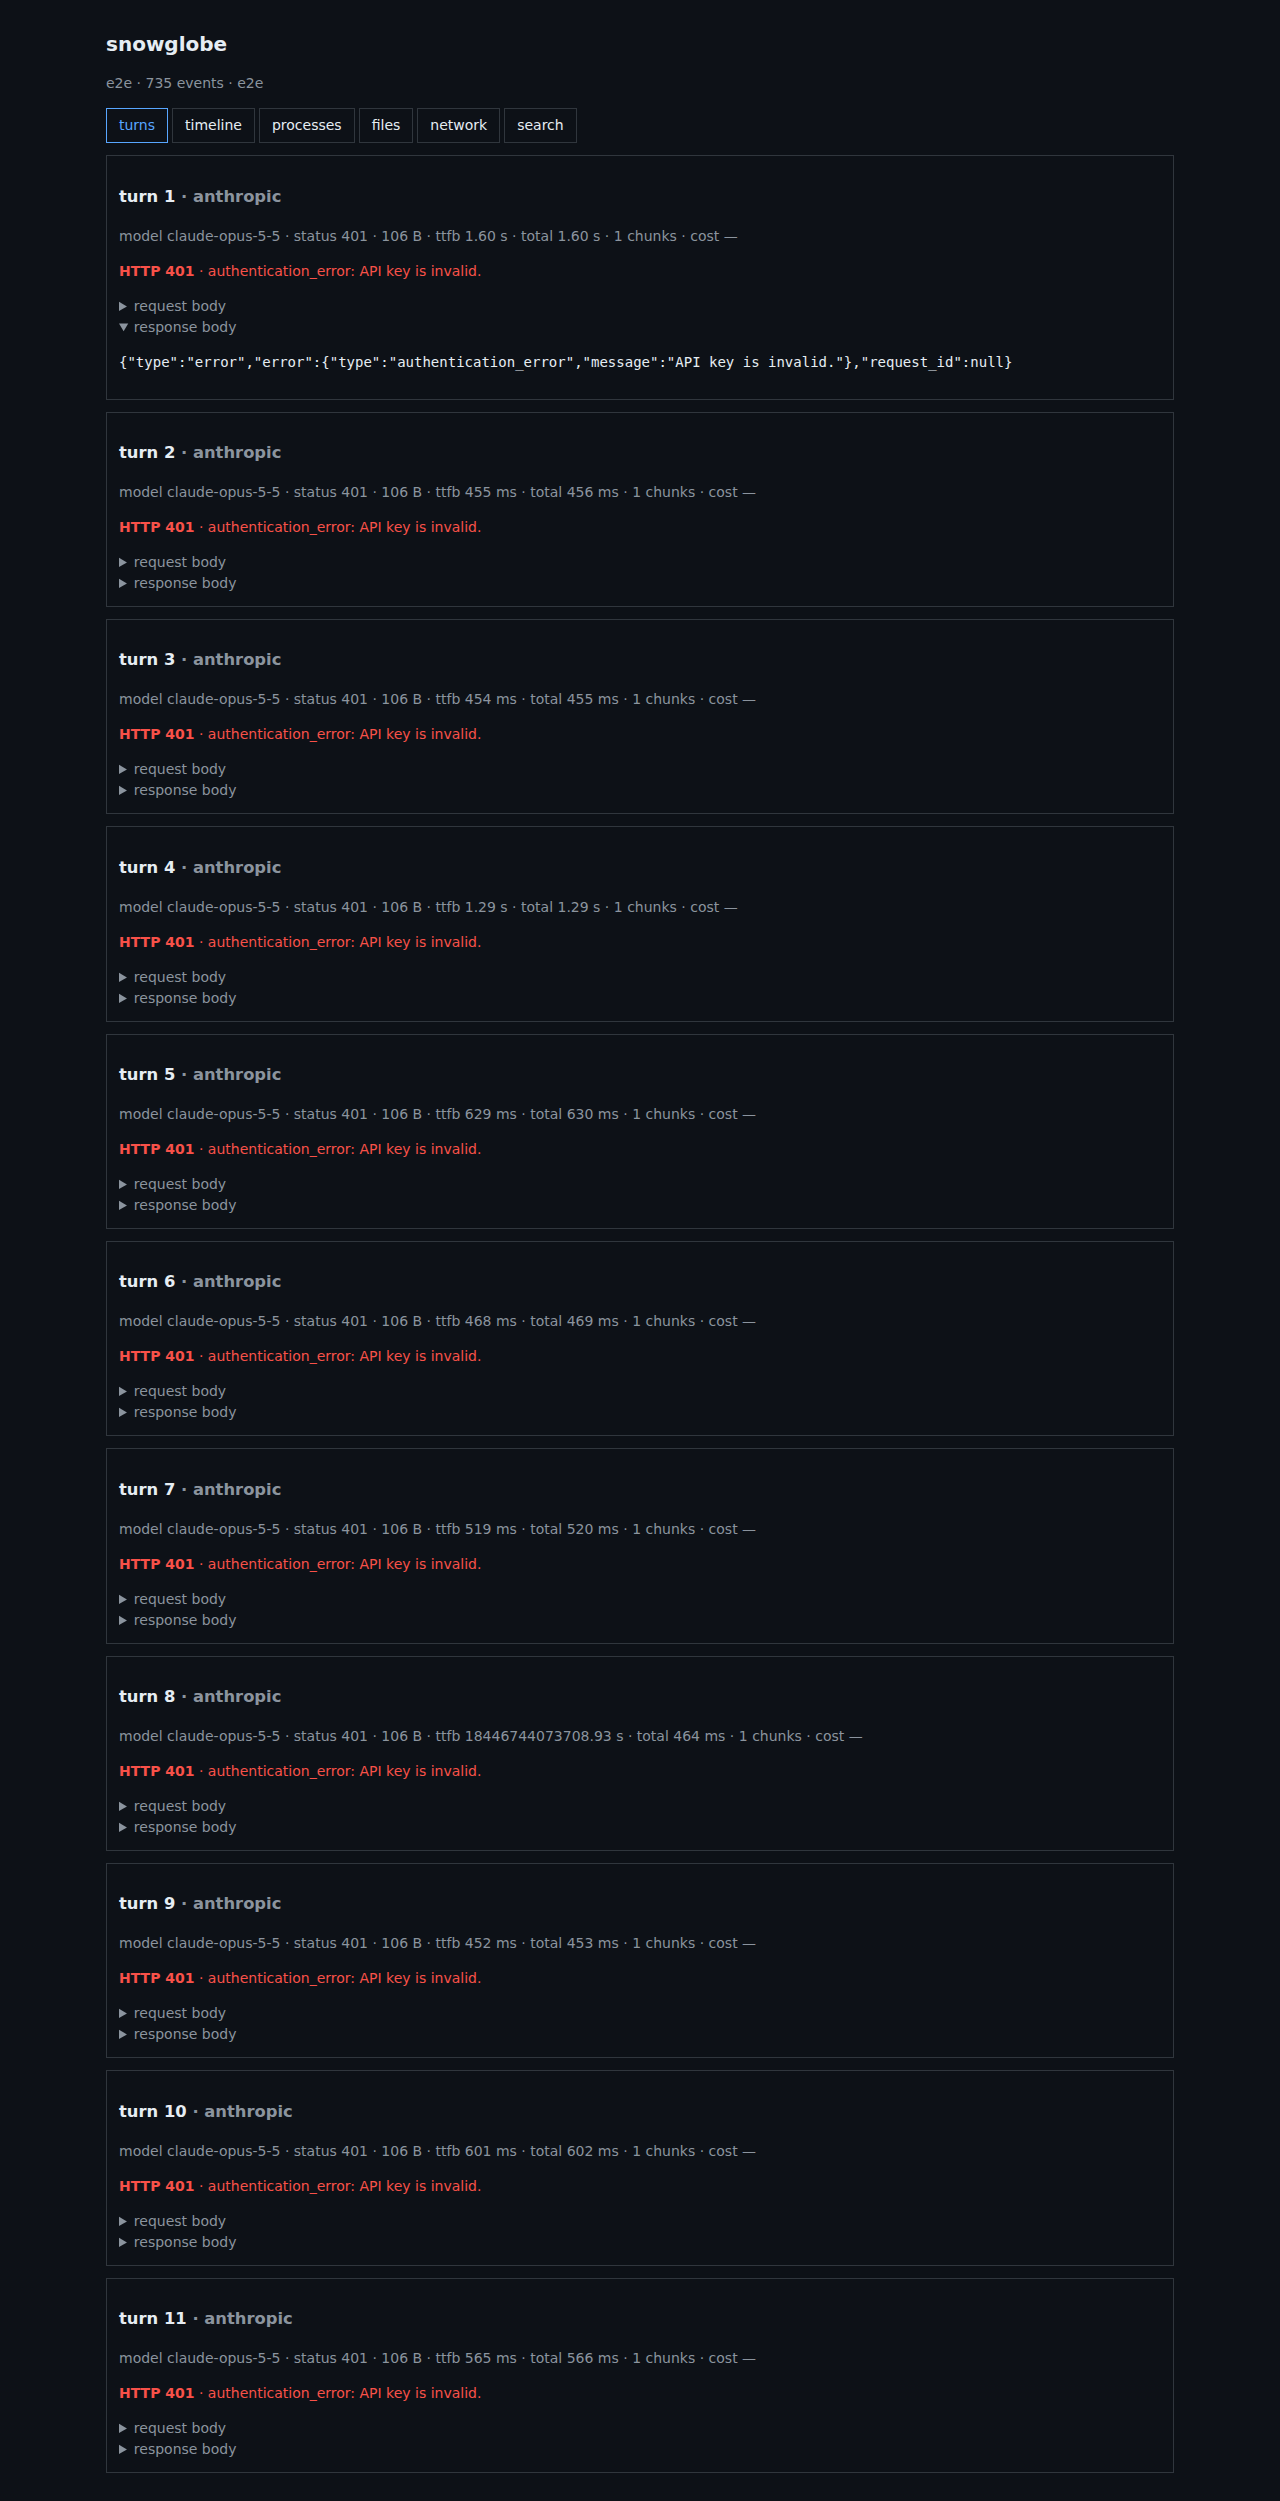
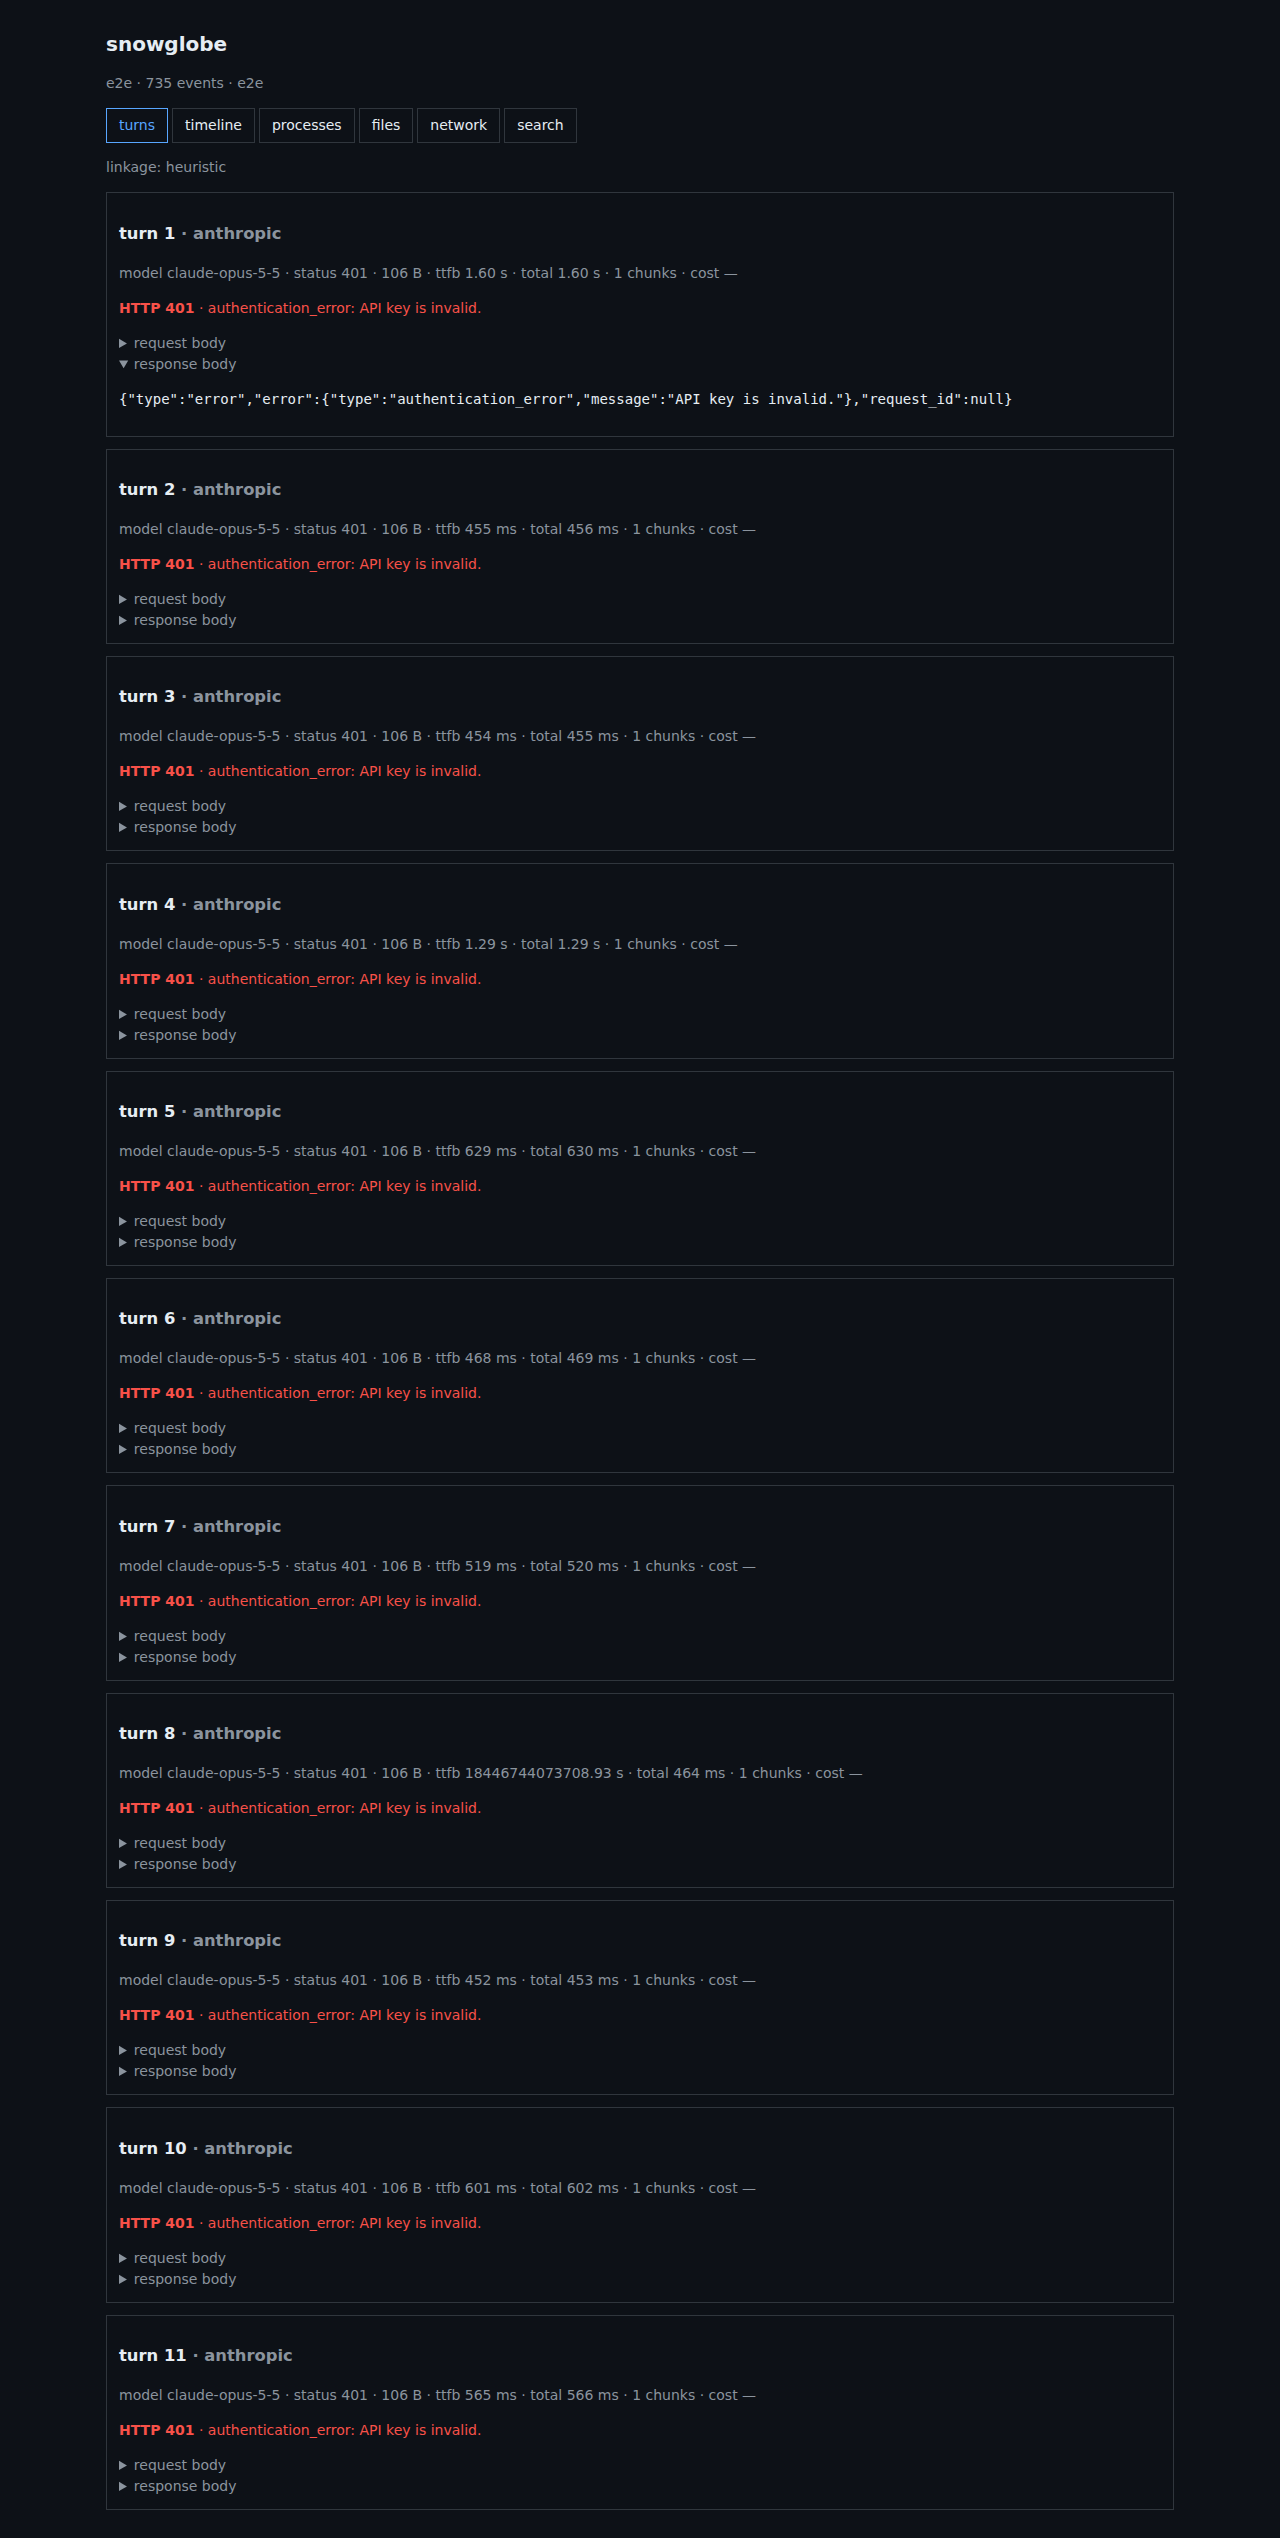
feat(viewer): Timeline turn lanes with basis badges (closes #3)
TurnIndex-single-sourced lanes (sidecar exact else span heuristic),
color-coded T1..Tn + grey pre-turn lane with reasons, linkage label on
the tab, basis on hover + inline, lane filters over the virtualised
list (50MB perf stays <3s). Playwright pins sidecar + heuristic paths.
Screenshots refreshed + timeline-lanes/files added; hero art kept.

diff --git a/viewer/components/Timeline.tsx b/viewer/components/Timeline.tsx
@@ -1,5 +1,8 @@
-import { useMemo, useState } from "react";
+import { useEffect, useMemo, useState } from "react";
 import VList from "./VList";
+import { TurnIndex, seqOf } from "../lib/model";
+import type { LinksDoc, Turn } from "../lib/model";
+import { loadLinks } from "../lib/load";
 import type { TraceEvent } from "../lib/types";
 
 const KINDS = [
@@ -12,20 +15,121 @@ const KINDS = [
   "trace",
 ] as const;
 
-// Every event, newest last, filterable by family. The 60fps path: VList
-// renders a window, never the whole trace.
+// Per-turn lane colors (cycled past 8 turns); pre-turn is always grey.
+// Inline styles: no theme dependency, readable on light and dark.
+const LANE_COLORS = [
+  "#2563eb",
+  "#059669",
+  "#d97706",
+  "#7c3aed",
+  "#db2777",
+  "#0891b2",
+  "#65a30d",
+  "#dc2626",
+];
+const PRE_COLOR = "#6b7280";
+
+interface LaneRow {
+  e: TraceEvent;
+  idx: number;
+  seq: number;
+  turn: Turn | null; // owning turn (sidecar exact or span heuristic)
+  turnPos: number; // 1-based position in TurnIndex.list (matches Turns tab)
+  basis: string | null; // window | lineage | argv-match | heuristic
+  reason: string | null; // unattributed reason (pre-turn, …)
+}
+
+// Lane assignment, single-sourced on TurnIndex (identical rules to the
+// Turns tab): the links.json sidecar wins where it speaks (exact seq +
+// basis + explicit unattributed reasons); unlisted seqs keep the
+// request-anchored span heuristic with basis "heuristic"; seqs before
+// the first turn land in the grey pre-turn lane, never dropped.
+function laneOf(
+  index: TurnIndex,
+  posOf: Map<number, number>,
+  e: TraceEvent,
+  idx: number,
+): LaneRow {
+  const seq = seqOf(e, idx);
+  const link = index.linkOf(seq);
+  if (link !== null && "turn" in link) {
+    return {
+      e,
+      idx,
+      seq,
+      turn: link.turn,
+      turnPos: posOf.get(link.turn.id) ?? 0,
+      basis: link.basis,
+      reason: null,
+    };
+  }
+  if (link !== null && "unattributed" in link) {
+    return { e, idx, seq, turn: null, turnPos: 0, basis: null, reason: link.unattributed };
+  }
+  const turn = index.getTurnForEvent(seq);
+  if (turn) {
+    return {
+      e,
+      idx,
+      seq,
+      turn,
+      turnPos: posOf.get(turn.id) ?? 0,
+      basis: "heuristic",
+      reason: null,
+    };
+  }
+  return { e, idx, seq, turn: null, turnPos: 0, basis: null, reason: "pre-turn" };
+}
+
+// Every event, newest last, filterable by family and by turn lane. The
+// 60fps path: VList renders a window, never the whole trace; lane
+// assignment is one linear memo pass, not per-row work.
 export default function Timeline({ events }: { events: TraceEvent[] }) {
   const [kind, setKind] = useState<(typeof KINDS)[number]>("all");
   const [query, setQuery] = useState("");
+  const [lane, setLane] = useState<string>("all");
+  const [links, setLinks] = useState<LinksDoc | null>(null);
+  useEffect(() => {
+    let live = true;
+    loadLinks().then((d) => {
+      if (live) setLinks(d);
+    });
+    return () => {
+      live = false;
+    };
+  }, []);
+  const index = useMemo(() => new TurnIndex(events, links), [events, links]);
+  const posOf = useMemo(() => {
+    const m = new Map<number, number>();
+    index.list.forEach((t, i) => m.set(t.id, i + 1));
+    return m;
+  }, [index]);
+  const laned = useMemo(
+    () => events.map((e, idx) => laneOf(index, posOf, e, idx)),
+    [events, index, posOf],
+  );
+  const laneCounts = useMemo(() => {
+    const m = new Map<string, number>();
+    for (const r of laned) {
+      const k = r.turn ? `turn:${r.turn.id}` : "pre";
+      m.set(k, (m.get(k) ?? 0) + 1);
+    }
+    return m;
+  }, [laned]);
   const rows = useMemo(() => {
     const q = query.toLowerCase();
-    return events.filter((e) => {
+    return laned.filter((r) => {
+      const e = r.e;
       const fam = e.ev.split(".")[0];
       if (kind !== "all" && fam !== kind && e.ev !== kind) return false;
+      if (lane === "pre" && r.turn !== null) return false;
+      if (lane.startsWith("turn:") && (!r.turn || `turn:${r.turn.id}` !== lane)) {
+        return false;
+      }
       if (q && !JSON.stringify(e).toLowerCase().includes(q)) return false;
       return true;
     });
-  }, [events, kind, query]);
+  }, [laned, kind, query, lane]);
   return (
     <div>
       <div className="tabs" role="tablist" aria-label="event family">
@@ -46,22 +150,97 @@ export default function Timeline({ events }: { events: TraceEvent[] }) {
           style={{ marginLeft: 8 }}
         />
       </div>
+      <p className="muted" data-testid="timeline-link-source">
+        linkage: {index.source}
+      </p>
+      <div role="tablist" aria-label="turn lane">
+        <button
+          data-testid="lane-all"
+          aria-selected={lane === "all"}
+          onClick={() => setLane("all")}
+        >
+          all lanes
+        </button>
+        <button
+          data-testid="lane-pre"
+          aria-selected={lane === "pre"}
+          onClick={() => setLane("pre")}
+          title="events before the first turn (sidecar pre-turn bucket or span heuristic)"
+        >
+          pre-turn ({laneCounts.get("pre") ?? 0})
+        </button>
+        {index.list.map((t) => (
+          <button
+            key={t.id}
+            data-testid={`lane-${t.id}`}
+            aria-selected={lane === `turn:${t.id}`}
+            onClick={() => setLane(`turn:${t.id}`)}
+            title={`turn ${posOf.get(t.id)} · ${t.provider} · status ${t.status}`}
+          >
+            <span
+              style={{
+                display: "inline-block",
+                width: 10,
+                height: 10,
+                background: LANE_COLORS[((posOf.get(t.id) ?? 1) - 1) % LANE_COLORS.length],
+                marginRight: 4,
+              }}
+            />
+            T{posOf.get(t.id)} ({laneCounts.get(`turn:${t.id}`) ?? 0})
+          </button>
+        ))}
+      </div>
       <p className="muted" data-testid="timeline-count">
         {rows.length} / {events.length} events
       </p>
       <VList
         items={rows}
-        rowHeight={26}
+        rowHeight={30}
         height={480}
-        keyOf={(e) => e.seq}
-        renderRow={(e) => (
-          <div style={{ padding: "3px 8px", whiteSpace: "nowrap" }}>
-            <span className="muted">#{e.seq}</span> <b>{e.ev}</b>{" "}
-            <span className="muted">
-              pid={String(e.pid)} tid={String(e.tid)} t={e.t_ms}ms
-            </span>
-          </div>
-        )}
+        keyOf={(r) => r.seq * 100000 + r.idx}
+        renderRow={(r) => {
+          const color = r.turn
+            ? LANE_COLORS[(r.turnPos - 1) % LANE_COLORS.length]
+            : PRE_COLOR;
+          const title = r.turn
+            ? `turn T${r.turnPos} (llm id ${r.turn.id}) · basis ${r.basis}`
+            : `pre-turn · ${r.reason ?? "unattributed"}`;
+          return (
+            <div
+              title={title}
+              style={{
+                padding: "4px 8px",
+                whiteSpace: "nowrap",
+                borderLeft: `4px solid ${color}`,
+              }}
+            >
+              <span
+                data-testid={r.turn ? `lane-chip-${r.turn.id}` : "lane-chip-pre"}
+                style={{
+                  display: "inline-block",
+                  minWidth: 34,
+                  textAlign: "center",
+                  color: "#fff",
+                  background: color,
+                  marginRight: 6,
+                  padding: "0 4px",
+                }}
+              >
+                {r.turn ? `T${r.turnPos}` : "pre"}
+              </span>
+              <span className="muted">#{r.seq}</span> <b>{r.e.ev}</b>{" "}
+              <span className="muted">
+                pid={String(r.e.pid)} tid={String(r.e.tid)} t={r.e.t_ms}ms
+              </span>{" "}
+              {r.basis && (
+                <span data-testid={`basis-${r.seq}`} className="muted">
+                  [{r.basis}]
+                </span>
+              )}
+              {r.reason && <span className="muted">({r.reason})</span>}
+            </div>
+          );
+        }}
       />
     </div>
   );

diff --git a/viewer/e2e/view.spec.ts b/viewer/e2e/view.spec.ts
@@ -33,8 +33,22 @@ test("toy-agent fixture: 3 turns, linked file write, offline", async ({
     await expect(page.getByTestId("linked-1")).toContainText("[window]");
     await expect(page.getByTestId("turn-text-2")).toContainText("done");
     await maybeScreenshot(page, "turns-toy-agent.png");
-    // Other views render on the same data.
+    // Timeline lanes (issue #3): same turn truth as the Turns tab —
+    // sidecar exact + basis badges, grey pre-turn lane, all virtualised.
     await page.getByRole("tab", { name: "timeline" }).click();
+    await expect(page.getByTestId("timeline-count")).toContainText("125 / 125 events");
+    await expect(page.getByTestId("timeline-link-source")).toContainText("sidecar");
+    await expect(page.getByTestId("lane-pre")).toBeVisible();
+    await expect(page.getByTestId("lane-1")).toBeVisible();
+    // Lane filter narrows to the turn: every rendered row then carries a
+    // basis badge (sidecar window/lineage/argv-match here, never blank).
+    await page.getByTestId("lane-1").click();
+    await expect(page.getByTestId("timeline-count")).not.toContainText("125 / 125 events");
+    expect(await page.locator('[data-testid^="basis-"]').count()).toBeGreaterThan(0);
+    expect(await page.locator('[data-testid="lane-chip-1"]').count()).toBeGreaterThan(0);
+    await expect(page.locator('[data-testid="lane-chip-pre"]')).toHaveCount(0);
+    // Back to all lanes: the grey pre-turn lane renders its reason chips.
+    await page.getByTestId("lane-all").click();
     await expect(page.getByTestId("timeline-count")).toContainText("125 / 125 events");
     await page.getByRole("tab", { name: "files" }).click();
     await expect(page.getByTestId("files")).toContainText("note.txt");

diff --git a/viewer/e2e/error.spec.ts b/viewer/e2e/error.spec.ts
@@ -54,6 +54,20 @@ test("claude-code-1-error: error turns render status, envelope, raw body", async
     await expect(page.getByTestId("timeline-count")).toContainText(
       "735 / 735 events",
     );
+    // Timeline lanes without links.json: the span heuristic applies and
+    // says so (badge rules identical to the Turns tab).
+    await expect(page.getByTestId("timeline-link-source")).toContainText("heuristic");
+    await expect(page.getByTestId("lane-pre")).toBeVisible();
+    await expect(page.getByTestId("lane-1")).toBeVisible();
+    // Heuristic territory: turn-lane rows carry the [heuristic] basis.
+    await page.getByTestId("lane-1").click();
+    expect(await page.locator('[data-testid^="basis-"]').count()).toBeGreaterThan(0);
+    await expect(page.locator('[data-testid="lane-chip-1"]').first()).toBeVisible();
+    await page.getByTestId("lane-all").click();
+    await maybeScreenshot(page, "timeline-lanes-error.png");
+    await page.getByRole("tab", { name: "files" }).click();
+    await expect(page.getByTestId("files")).toBeVisible();
+    await maybeScreenshot(page, "files-error.png");
     expect(external).toEqual([]);
   } finally {
     await srv.stop();

diff --git a/docs/viewer.md b/docs/viewer.md
@@ -25,7 +25,16 @@ viewer does today and how it is built, tested, and extended.
 `viewer/pages/index.tsx` hosts the tabs, all backed by virtualised lists
 (`components/VList.tsx`) so a 50 MB trace opens in < 3 s:
 
-- **Timeline** — all events in seq order.
+- **Timeline** — all events in seq order, grouped into turn lanes: one
+  color-coded lane per turn (`T1…Tn`, matching the Turns tab numbering)
+  plus a grey pre-turn lane for unattributed events (with reasons, never
+  dropped). Lane membership and basis badges come from the same
+  `TurnIndex` the Turns tab uses — `links.json` exact (`window` /
+  `lineage` / `argv-match`) when the run has one, the span heuristic
+  (`[heuristic]`) otherwise — and the header reads
+  `linkage: sidecar|heuristic` on this tab too. Lane filter buttons
+  (`all lanes`, `pre-turn (N)`, `T1 (N)`…) narrow the virtualised list;
+  the basis shows on hover (title) and inline as a badge.
 - **Turns** — one section per LLM turn (request → response): folded text,
   tool calls with arguments, usage/cost when known, timing (ttfb/total,
   chunk count), truncation and error flags. Turns come from
@@ -106,16 +115,21 @@ viewer does today and how it is built, tested, and extended.
   events, 11 401 turns, probe excluded, every real envelope parsed).
 - **Playwright** (`viewer/e2e/`, chromium): real `snowglobe view` against
   the committed fixtures — `view.spec.ts` (toy-agent success flow: tab
-  rendering, turn linkage), `error.spec.ts` (error recording: status +
-  envelope banner, raw-body toggle, no blank screen, probe not a turn),
-  and the perf test (50 MB trace < 3 s). `run-e2e.sh` skips with a
+  rendering, turn linkage, Timeline lanes with sidecar badges + lane
+  filter), `error.spec.ts` (error recording: status +
+  envelope banner, raw-body toggle, no blank screen, probe not a turn,
+  Timeline lanes with the labelled heuristic fallback),
+  and the perf test (50 MB trace < 3 s, lanes included). `run-e2e.sh` skips with a
   printed reason when node, browsers, or the binary are absent (never
   fails silently).
-- **Screenshots**: `docs/screenshots/turns-toy-agent.png` (success flow)
-  and `docs/screenshots/turns-error-401.png` (real 401 error turn with
-  the raw envelope open) are captured by the e2e runs; set
+- **Screenshots**: `docs/screenshots/turns-toy-agent.png` (success flow),
+  `docs/screenshots/turns-error-401.png` (real 401 error turn with
+  the raw envelope open), `docs/screenshots/timeline-lanes-error.png`
+  (Timeline lanes on the real error fixture) and
+  `docs/screenshots/files-error.png` (Files on the same fixture) are
+  captured by the e2e runs; set
   `SG_SCREENSHOT_DIR=<path>` when running Playwright to refresh them
-  (CI never writes into the repo). Both refresh when issue #2's
+  (CI never writes into the repo). Turns shots refresh when issue #2's
   success-path recording lands.
 - Both run inside CTest as `viewer_unit` / `viewer_e2e`; the e2e leg runs
   for real in the CI `viewer` job and skip-prints elsewhere.

diff --git a/README.md b/README.md
@@ -52,6 +52,8 @@ The full LLM round-trip (mock model → file write → offline replay) is
 
 ![Toy-agent turns in the viewer](docs/screenshots/turns-toy-agent.png)
 ![Error turns in the viewer](docs/screenshots/turns-error-401.png)
+![Timeline lanes by turn in the viewer](docs/screenshots/timeline-lanes-error.png)
+![Files touched in the viewer](docs/screenshots/files-error.png)
 
 ## Backends: ptrace and seccomp-notify
 
